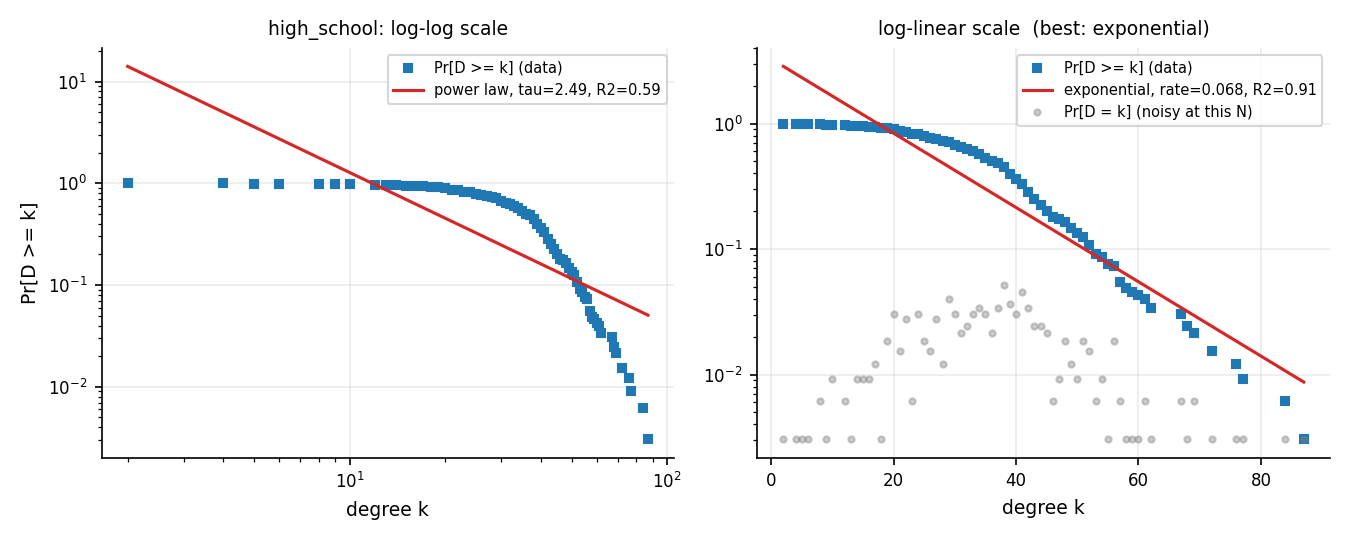
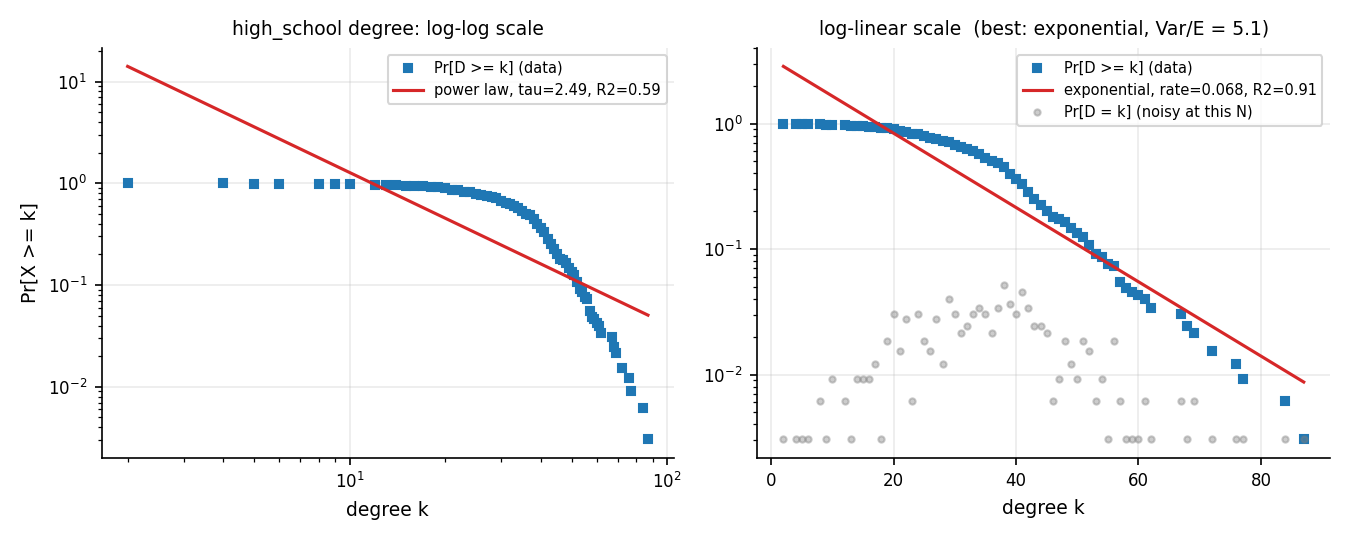
[feature][Stream 1]  strength-distribution fits and figures (RQ1 heavy-tail hypothesis)

diff --git a/scripts/run_static_characterisation.py b/scripts/run_static_characterisation.py
@@ -2,13 +2,14 @@
 
 For every dataset:
   results/static_metrics_<ds>.csv       lecture-1 metrics of the real aggregated graph
-  results/degree_fit_<ds>.csv           power-law vs exponential fits of Pr[D = k]
+  results/degree_fit_<ds>.csv           power-law vs exponential fits of the degree distribution
+  results/strength_fit_<ds>.csv         same fits for node strength (contact minutes)
   results/centralities_<ds>.csv         one row per node (used by streams 4 and 6)
   results/centrality_correlations_<ds>.csv  Spearman correlation between centralities
   results/assortativity_range.csv       min / real / max assortativity reachable by rewiring
   results/null_<kind>_<ds>.csv          metrics of each null realisation
   results/zscores_<kind>_<ds>.csv       real vs null, with z and empirical p
-  figures/degree_distribution_<ds>.png
+  figures/degree_distribution_<ds>.png, figures/strength_distribution_<ds>.png
 Across datasets:
   results/static_metrics_all.csv, results/zscores_all.csv
   figures/rq1_static_vs_null_<kind>.png real metric vs null-model band, one panel per metric
@@ -50,8 +51,9 @@ PLOT_METRICS = [
 ]
 
 
-def degree_figure(key: str, G, fit: dict) -> None:
-    deg = np.array([d for _, d in G.degree()])
+def degree_figure(key: str, G, fit: dict, values=None, name: str = "degree", unit: str = "") -> None:
+    """CCDF with both fits for degree (default) or any per-node quantity, e.g. strength."""
+    deg = np.array([d for _, d in G.degree()]) if values is None else np.asarray(values)
     ks, counts = np.unique(deg[deg > 0], return_counts=True)
     p = counts / counts.sum()
     ccdf = 1 - np.cumsum(p) + p
@@ -62,20 +64,21 @@ def degree_figure(key: str, G, fit: dict) -> None:
     axes[0].loglog(ks, ccdf, "s", ms=4, label="Pr[D >= k] (data)")
     axes[0].loglog(ks, np.exp(b_pl) * ks ** a_pl, "-", color="C3",
                    label=f"power law, tau={fit['ccdf_powerlaw_exponent']:.2f}, R2={fit['ccdf_powerlaw_r2']:.2f}")
-    axes[0].set_xlabel("degree k")
-    axes[0].set_ylabel("Pr[D >= k]")
-    axes[0].set_title(f"{key}: log-log scale", fontsize=9)
+    axes[0].set_xlabel(f"{name} k{unit}")
+    axes[0].set_ylabel("Pr[X >= k]")
+    axes[0].set_title(f"{key} {name}: log-log scale", fontsize=9)
     axes[0].legend(fontsize=7)
     axes[1].semilogy(ks, ccdf, "s", ms=4, label="Pr[D >= k] (data)")
     axes[1].semilogy(ks, np.exp(b_ex + a_ex * ks), "-", color="C3",
                      label=f"exponential, rate={fit['ccdf_exponential_rate']:.3f}, R2={fit['ccdf_exponential_r2']:.2f}")
-    axes[1].semilogy(ks, p, "o", ms=3, alpha=0.4, color="grey", label="Pr[D = k] (noisy at this N)")
-    axes[1].set_xlabel("degree k")
-    axes[1].set_title(f"log-linear scale  (best: {fit['best']})", fontsize=9)
+    if values is None:
+        axes[1].semilogy(ks, p, "o", ms=3, alpha=0.4, color="grey", label="Pr[D = k] (noisy at this N)")
+    axes[1].set_xlabel(f"{name} k{unit}")
+    axes[1].set_title(f"log-linear scale  (best: {fit['best']}, Var/E = {fit['degree_dispersion_var_over_mean']:.1f})", fontsize=9)
     axes[1].legend(fontsize=7)
     fig.tight_layout()
     FIG_DIR.mkdir(exist_ok=True)
-    fig.savefig(FIG_DIR / f"degree_distribution_{key}.png", dpi=150)
+    fig.savefig(FIG_DIR / f"{name}_distribution_{key}.png", dpi=150)
     plt.close(fig)
 
 
@@ -161,12 +164,19 @@ def main() -> None:
         G = views.aggregate(contacts, nodes)
         real = sm.network_metrics(G, seed=args.seed)
         fit = sm.fit_degree_distribution([d for _, d in G.degree()])
+        # strength in minutes of contact; the heavy-tail hypothesis of RQ1 is about strength, not degree
+        strength_min = np.array([s for _, s in G.degree(weight="weight")]) / 60.0
+        fit_s = sm.fit_degree_distribution(np.round(strength_min).astype(int))
         cent = sm.centralities(G)
         cache.save_table(pd.Series(real, name=key).to_frame(), f"static_metrics_{key}")
         cache.save_table(pd.Series(fit, name=key).to_frame(), f"degree_fit_{key}")
+        cache.save_table(pd.Series(fit_s, name=key).to_frame(), f"strength_fit_{key}")
         cache.save_table(cent, f"centralities_{key}")
         cache.save_table(sm.centrality_correlations(cent), f"centrality_correlations_{key}")
         degree_figure(key, G, fit)
+        degree_figure(key, G, fit_s, values=np.round(strength_min).astype(int), name="strength", unit=" (min)")
+        print(f"   strength (min): max/mean = {strength_min.max()/strength_min.mean():.1f}, Var/E = {fit_s['degree_dispersion_var_over_mean']:.1f}, "
+              f"CCDF best = {fit_s['best']} (power R2={fit_s['ccdf_powerlaw_r2']:.2f}, exp R2={fit_s['ccdf_exponential_r2']:.2f})")
         rng = assortativity_range(key, G, seed=args.seed)
         all_rho.append(rng)
         print(f"   assortativity range by rewiring: [{rng['rho_min']:.2f}, {rng['rho_max']:.2f}], real {rng['rho_real']:.2f}")

diff --git a/PLAN.md b/PLAN.md
@@ -44,6 +44,7 @@ Needs: loader. Delivers to: centrality table and correlations to streams 4 and 6
 - ✅ Modularity of the metadata partition (class / ward role) and of the Louvain optimum
 - ✅ Spectral radius λ1 and the SIS threshold 1/λ1; algebraic connectivity
 - ✅ Degree-distribution fits: power law vs exponential on the pmf and on the CCDF, plus Var/E[D] against the ER expectation (`fit_degree_distribution`)
+- ✅ Strength-distribution fits (contact minutes per node), same method (`results/strength_fit_<ds>.csv`, `figures/strength_distribution_<ds>.png`)
 - ✅ Centrality table per node: degree, strength, betweenness, closeness, eigenvector (unweighted and weighted), k-shell (`centralities`)
 - ✅ Spearman correlation matrix between centralities (`results/centrality_correlations_<ds>.csv`)
 - ✅ Configuration model (stub matching, loops and duplicates removed) (`f2f.nulls.configuration_model`)
@@ -130,4 +131,6 @@ Needs: engine from stream 4; centralities from stream 2; predictions from stream
 - Schools: class structure far beyond chance (modularity z ≈ 74 primary, ≈ 151 high school against the rewired null).
 - Hospital: ward roles are not communities; role modularity is negative and degree assortativity is negative (nurses bridge patients).
 - Degree distributions: exponential tail on the CCDF, Var/E[D] between 5 and 10, so neither scale-free nor Erdős-Rényi.
+- Strength (contact minutes) is far more heterogeneous than degree: max/mean 2.5 to 5 and an exponential tail with R² 0.92 to 0.98, still not a power law.
+- Heterogeneity lives in contact time, not contact count: the busiest person has 2 to 2.5x the mean degree but 2.5 to 5x the mean strength. Immunisation rankings should use strength or weighted centralities rather than plain degree (prediction for RQ2 and RQ4).
 - Tiny worlds: mean hopcount 1.6 to 2.2, diameter 3 to 4. SIS thresholds 1/λ1: 0.027 (hospital), 0.012 (primary), 0.024 (high school).
